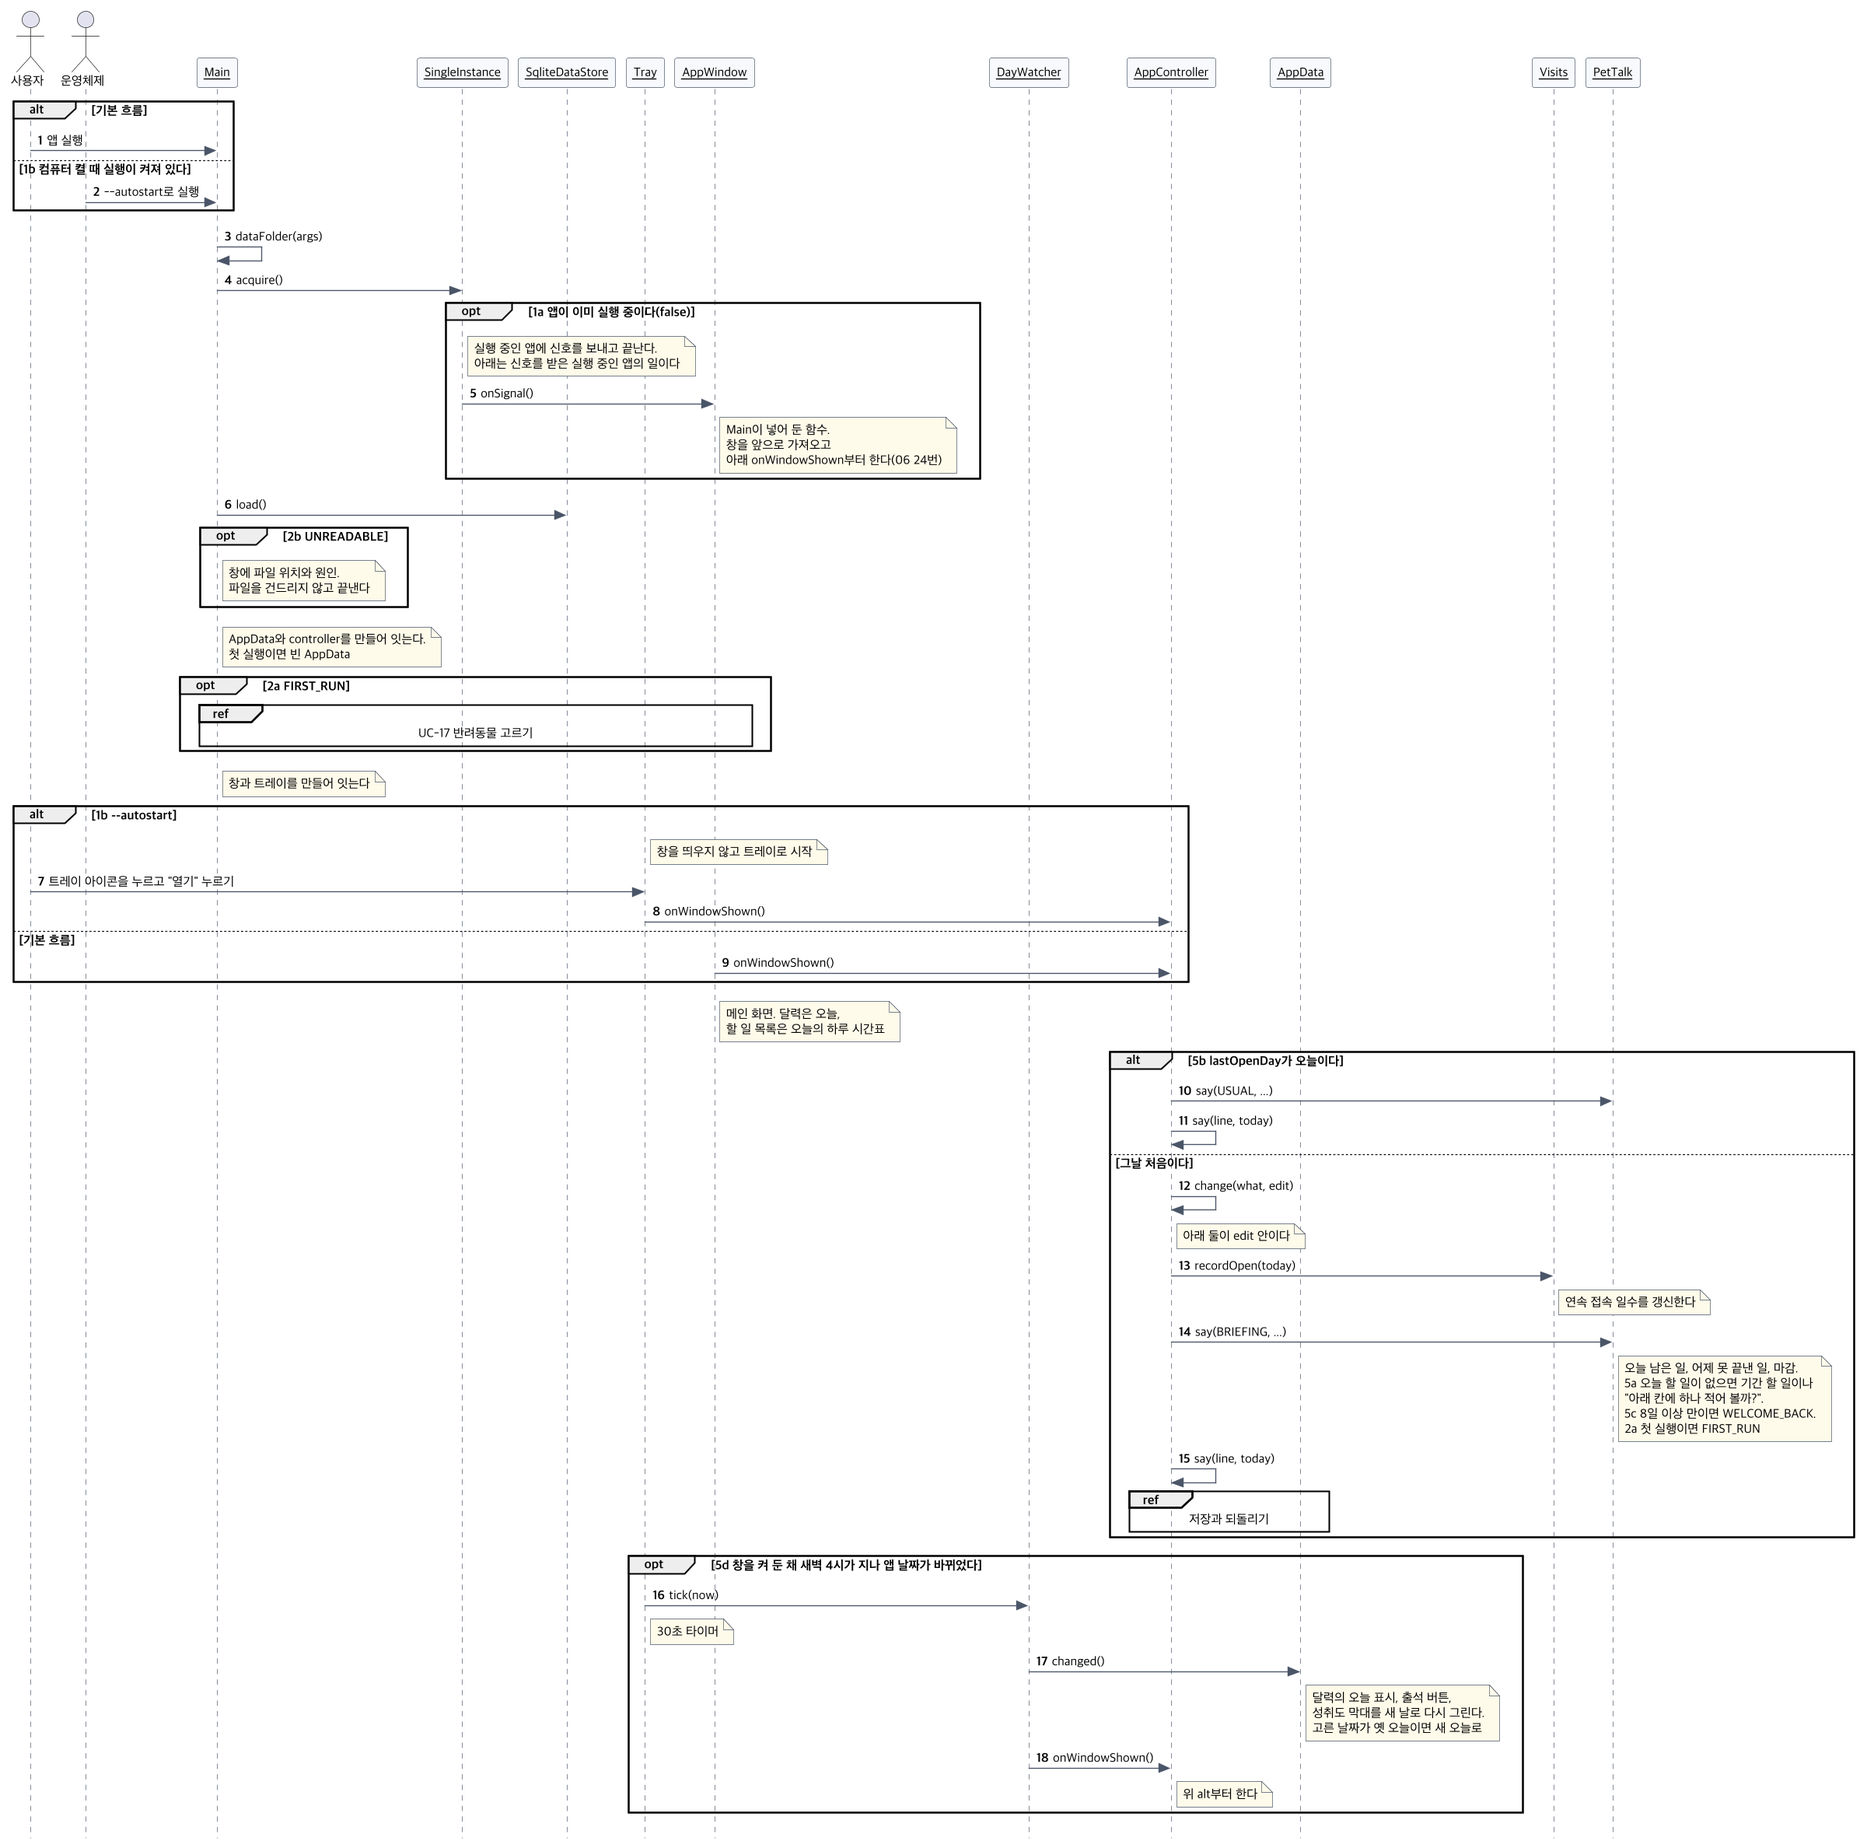
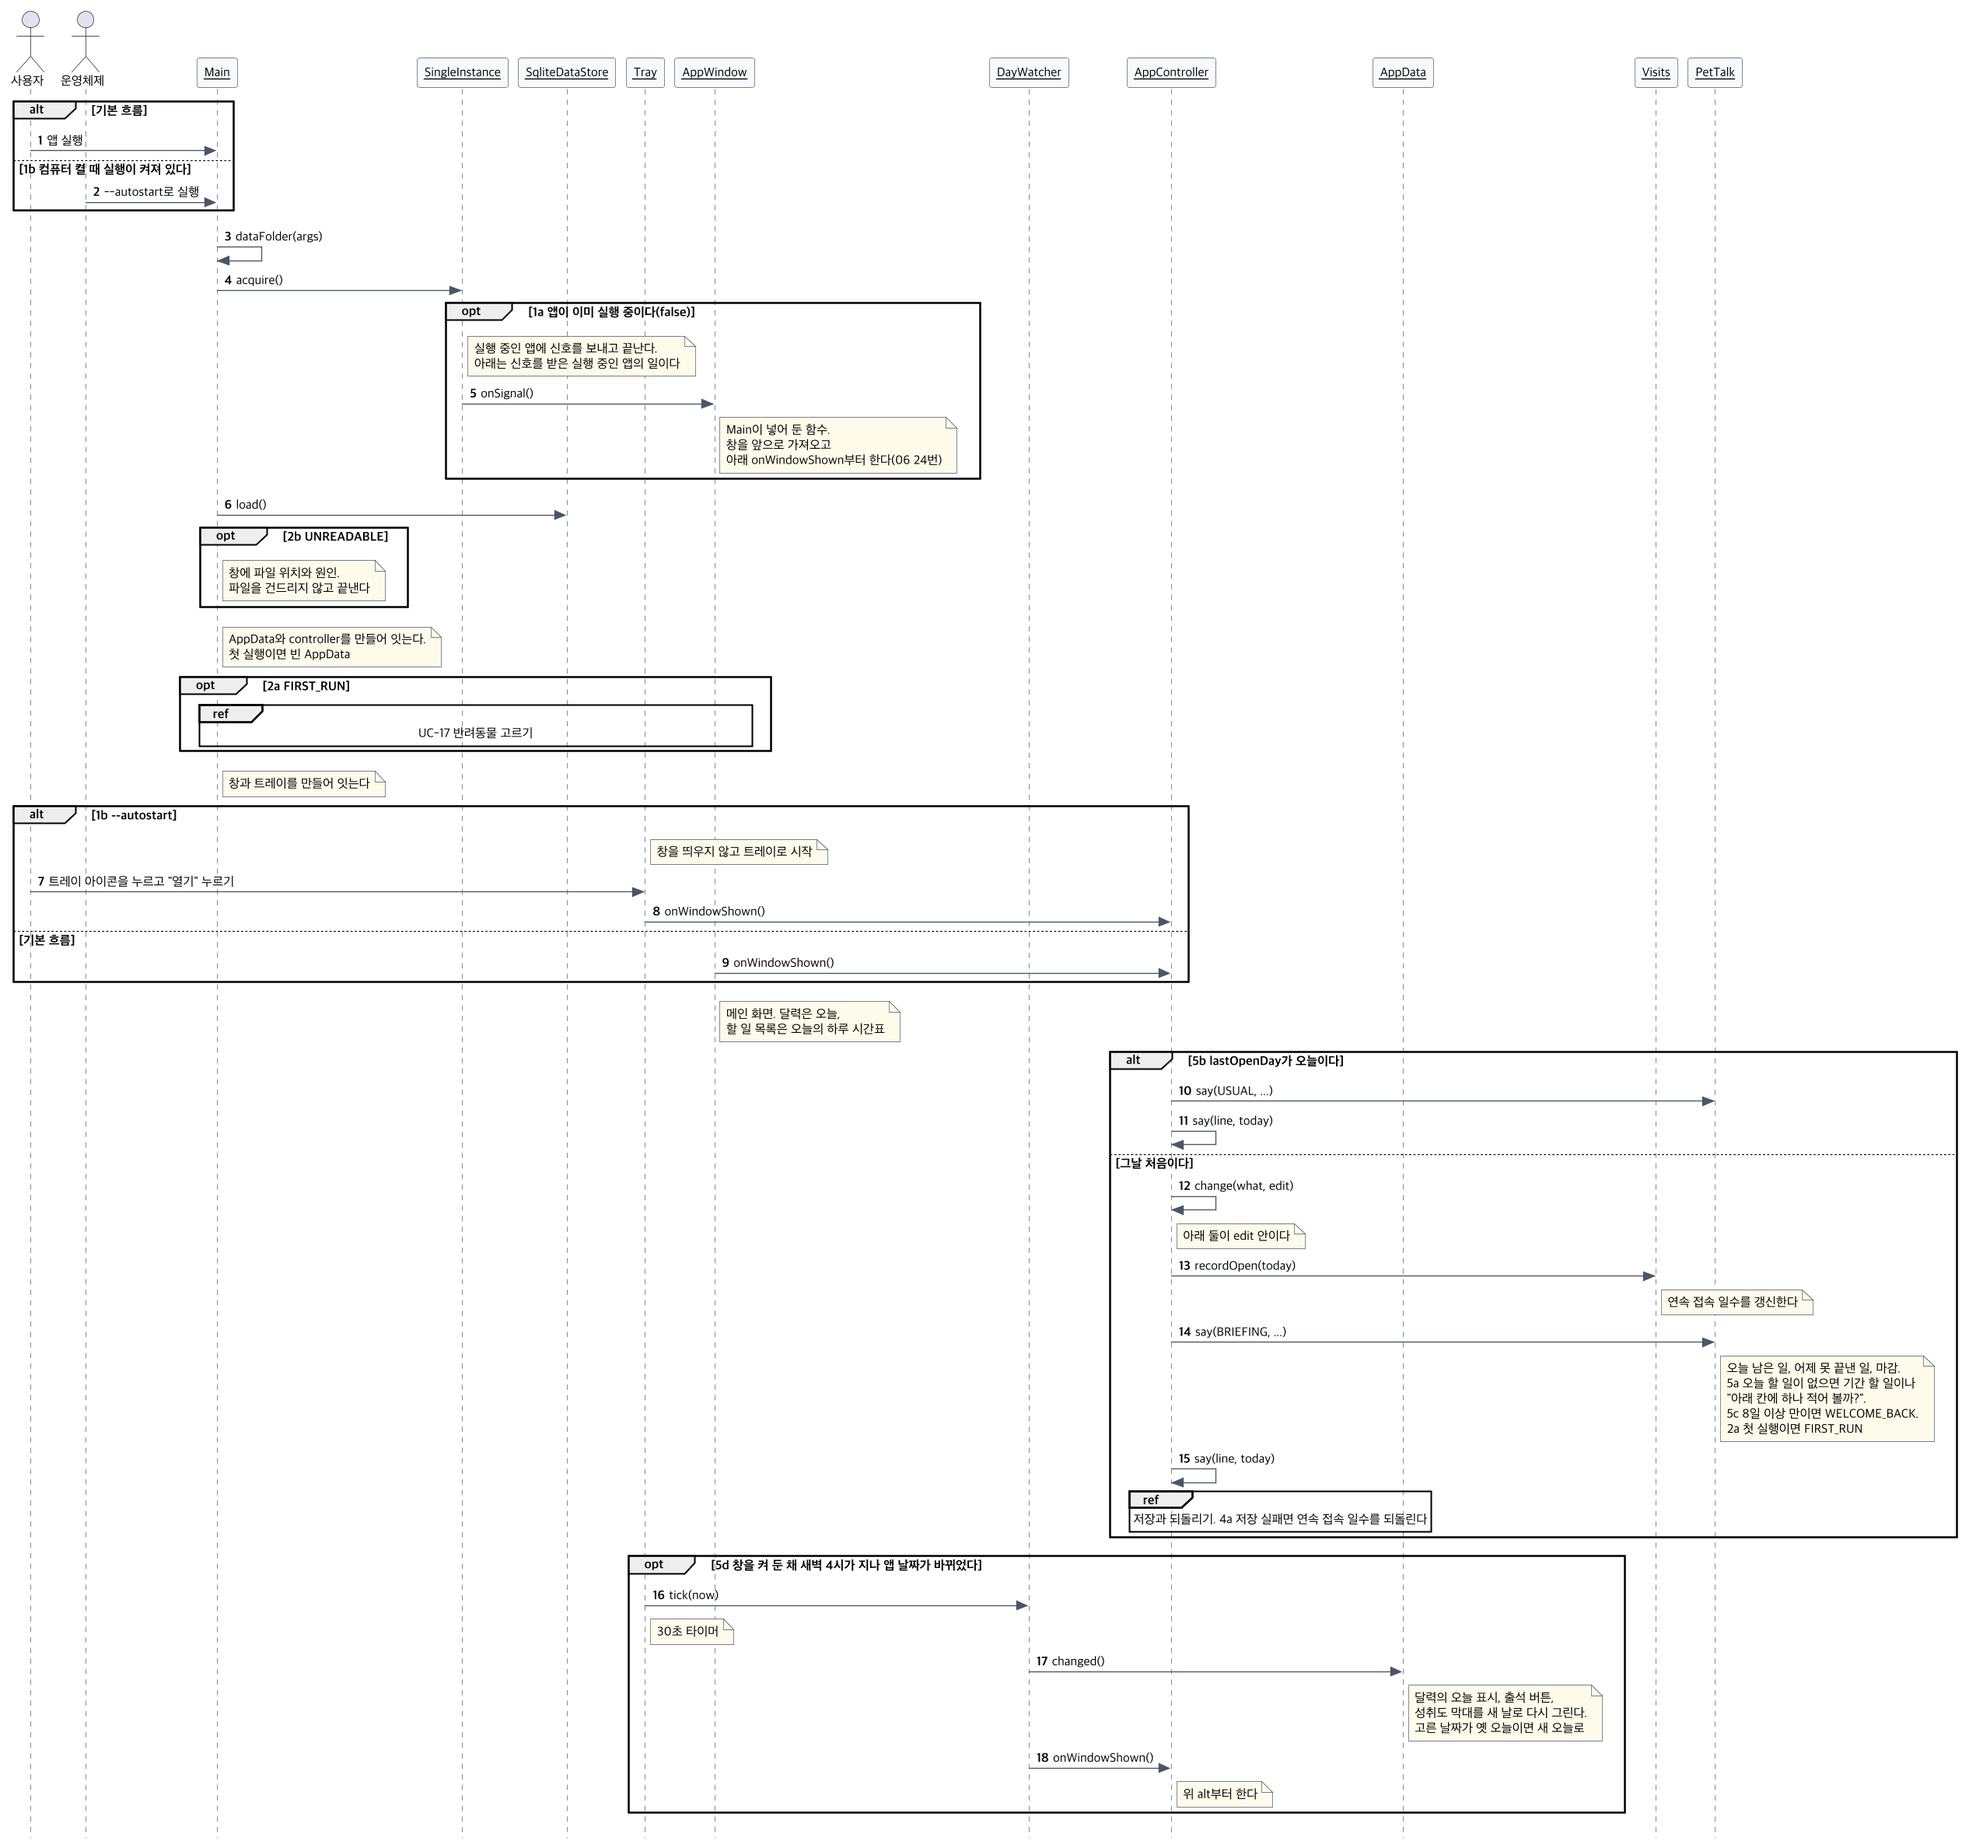
docs(home): UC-01과 UC-19에 저장 실패 갈래를 넣고 06 22번 쓰는 곳에 더하기 (#318)
그날 처음 창을 열면 연속 접속 일수를, 설치 뒤 처음 창을 닫으면 안내한
기록을 22번 change로 저장한다(04 seq-uc01, seq-uc19). 02에 이 저장이
실패하는 갈래가 없어 UC-01 4a, UC-19 1c로 기존 번호 뒤에 더했다. 06 22번
쓰는 곳에 UC-01과 UC-19를 넣고, 04 두 그림의 ref 조각에 갈래 번호를
적었다(04 읽는 법의 저장 실패 갈래 표기).

diff --git a/docs/02-usecases.md b/docs/02-usecases.md
@@ -58,6 +58,7 @@
   - 1b. 운영체제가 컴퓨터를 켤 때 앱을 실행했다: 창을 띄우지 않고 트레이로 시작한다. 3부터는 사용자가 트레이에서 창을 열 때 한다.
   - 2a. 저장된 데이터가 없다(첫 실행): UC-17 반려동물 고르기를 먼저 하고 3으로 간다. 5에서 펫은 자기를 소개하고 수업 시간표부터 넣어 보자고 한다.
   - 2b. 데이터 파일을 읽을 수 없다: 앱은 파일을 덮어쓰지 않고, 원인을 알리는 창을 띄운 뒤 끝낸다.
+  - 4a. 저장에 실패했다: 연속 접속 일수와 마지막으로 브리핑한 날을 되돌리고 저장 실패를 알린다(06의 22번). 펫 말은 저장할 데이터가 아니라 5의 브리핑은 그대로 보인다(07).
   - 5a. 오늘 할 일이 없고 마감이 가까운 할 일도 없다: 오늘 "기간 안에 할 일"이 있으면 펫이 가장 가까운 마감을 알리고(D-70), 없으면 할 일을 추가해 보라고 말한다.
   - 5b. 오늘 이미 브리핑했다: 펫은 브리핑을 되풀이하지 않고 오늘 남은 할 일 수만 말한다.
   - 5c. 마지막 브리핑이 8일 이상 전이다: 펫이 반겨 주는 말과 오늘 할 일 수로 5를 대신한다. 지난 할 일이나 끊긴 연속 접속을 탓하지 않는다.
@@ -402,6 +403,7 @@
 - **대안 흐름**:
   - 1a. 설치 뒤 처음으로 창을 닫았다: 앱이 트레이에 남아 있다고 한 번 알려 준다.
   - 1b. 운영체제가 트레이를 지원하지 않는다: 창을 닫으면 앱이 끝난다(D-29).
+  - 1c. 1a에서 안내한 것을 저장하지 못했다: 안내한 기록을 되돌리고 저장 실패를 알린다(06의 22번). 기록이 남지 않아 다음에 창을 닫을 때 다시 안내한다(06의 25번).
   - 3a. 사용자가 트레이 메뉴에서 끝내기를 누르거나 macOS에서 Cmd+Q를 누른다: 앱이 완전히 끝난다. 이후 알림은 오지 않는다.
 - **사후조건**: 창이 숨겨지고 앱은 백그라운드에서 실행 중이다.
 - **미정**: 없음

diff --git a/docs/06-functions.md b/docs/06-functions.md
@@ -638,7 +638,7 @@
 
 사용자의 변경 하나를 적용하고 저장한다. 저장에 실패하면 되돌린다.
 
-- **쓰는 곳**: 데이터를 바꾸는 모든 유스케이스(UC-02~UC-08, UC-11, UC-15~UC-17, UC-20~UC-23)
+- **쓰는 곳**: 데이터를 바꾸는 모든 유스케이스(UC-01~UC-08, UC-11, UC-15~UC-17, UC-19~UC-23). UC-01은 연속 접속 일수, UC-19는 처음 창 닫기 안내 기록을 저장한다.
 - **입력**: 저장 실패 창에 보일 이름(예: "할 일 완료"), 변경
 - **하는 일**: 데이터의 복사본을 떠 두고 변경을 적용한 뒤 21번 `save`를 한 번 부른다. 실패하면 복사본으로 되돌리고 오류 창(제목 "저장하지 못했어요", 내용 "{what} 저장에 실패해서 바꾸기 전으로 돌렸어요.")을 띄운다. 일정 입력 창은 이때 닫지 않고 입력값을 남긴다. 저장에 성공하든 되돌리든 마지막에 데이터 변경 알림을 한 번 보낸다. 데이터를 보이는 모든 부품(위 막대, 달력, 할 일 목록, 성취도 막대와 그 위의 펫, 레벨 막대, 시간표, 일정관리 오른쪽 목록, 일정관리의 펫, 나의 방의 머리 카드와 방과 펫 패널과 상점 칸, 캐릭터, 통계)은 이 알림을 받아 다시 그린다. 알림을 받지 않는 부품이 있으면 그 부품만 옛 값으로 남는다.
 
